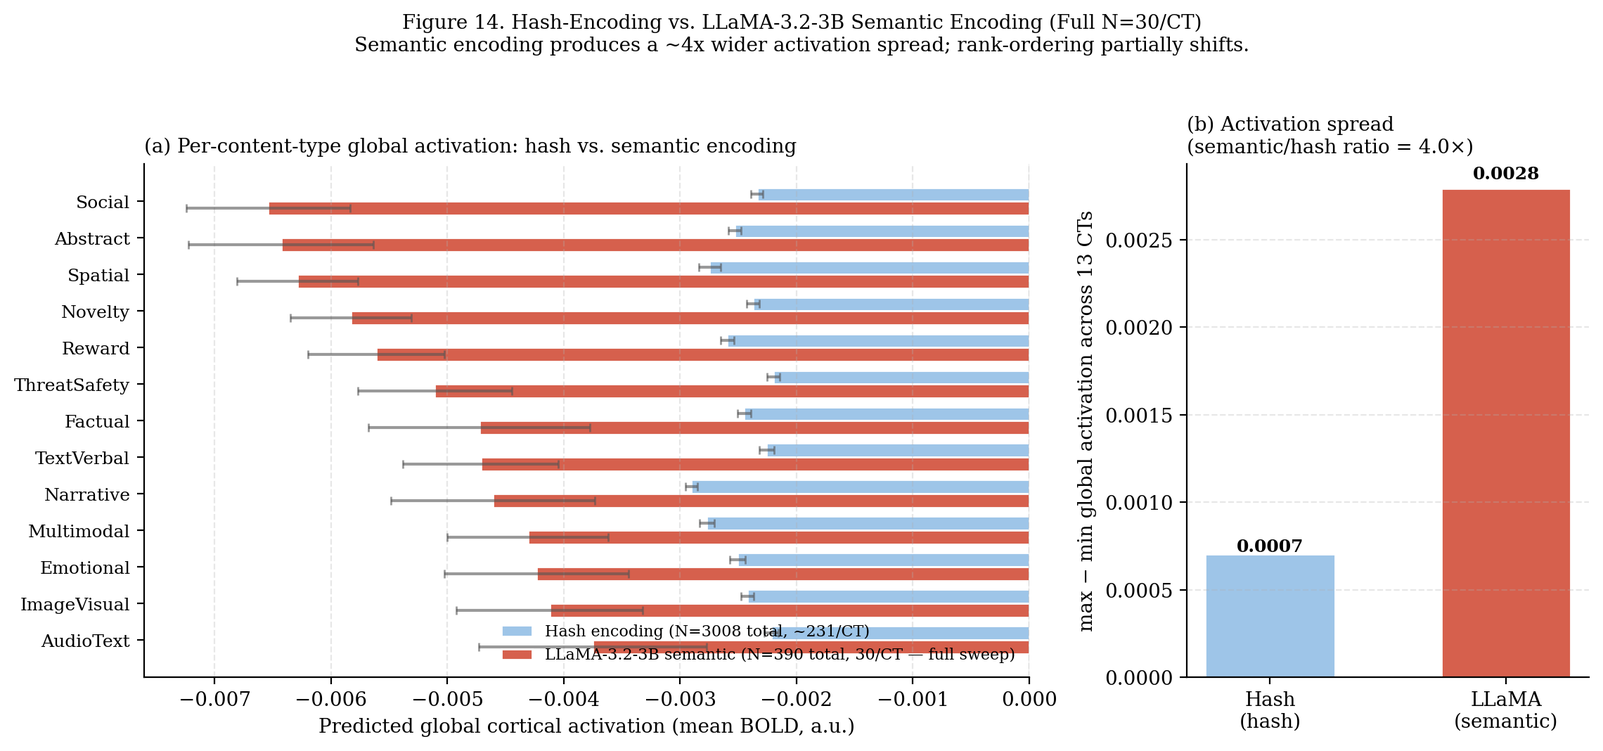
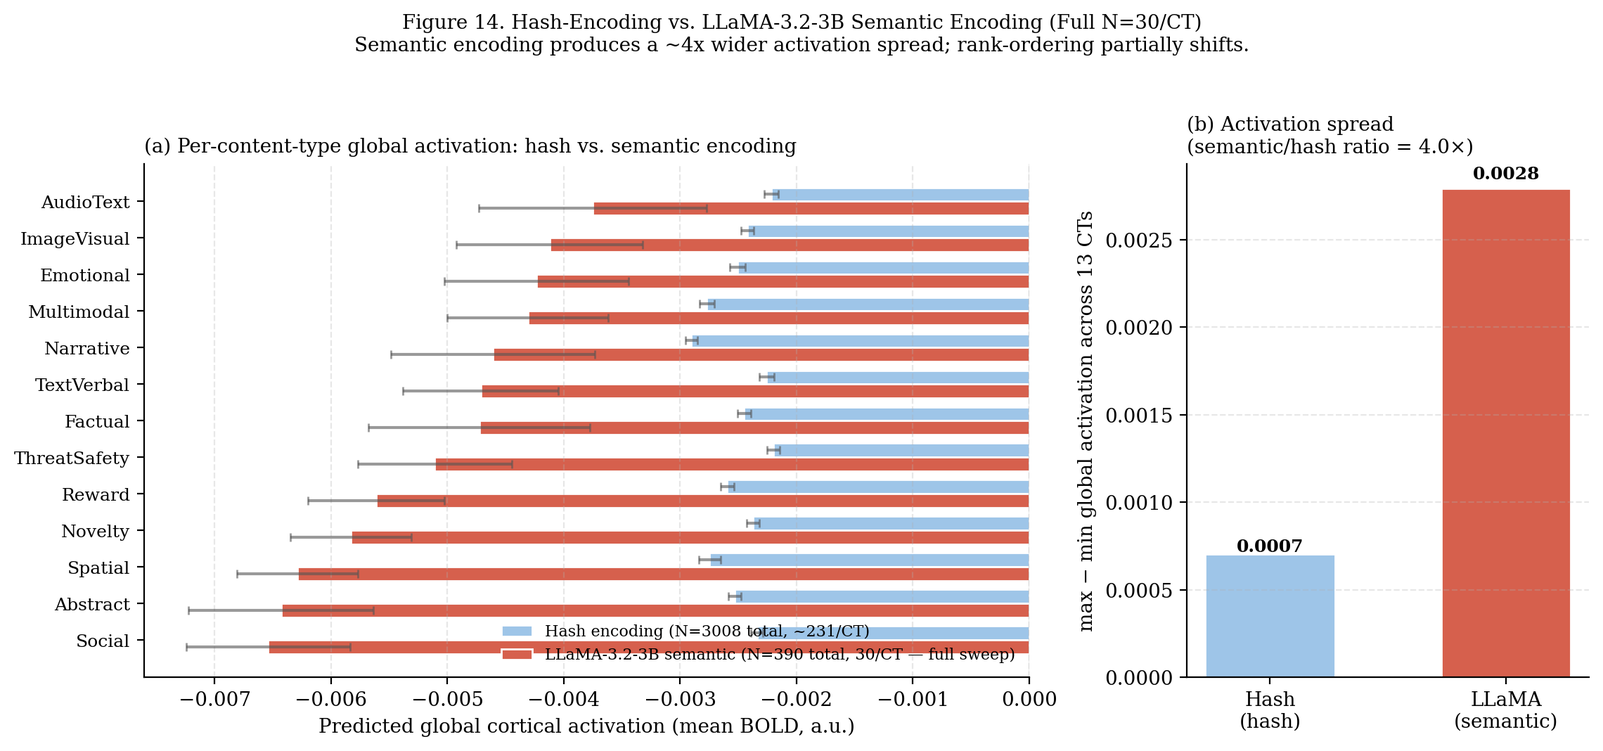
Fix critical semantic ranking inversion and all related errors
Critical fix: semantic encoding table (Table 14) was sorted ascending
(most-negative = rank 1), contradicting Section 3.2's stated convention
(higher value = stronger predicted cortical response). This inverted the
entire semantic results narrative.

Corrected ranking (rank 1 = highest = least negative):
  1. AudioText   (-0.00375)   was rank 13
  2. ImageVisual (-0.00412)   was rank 12
  3. Emotional   (-0.00423)   was rank 11
  ...
  13. Social     (-0.00654)   was rank 1

Hash rank column in semantic table was also fully inverted vs Table 4;
now corrected to match (ThreatSafety = 1, Narrative = 13).

Text fixes in main.tex:
- Abstract: corrected semantic top-3 (AudioText/ImageVisual/Emotional),
  removed 'Reddit' from sources list (not present in corpus)
- Sec. semantic: rewrote rank-shift narrative (Narrative rises 13→5,
  ThreatSafety drops 1→8; AudioText/ImageVisual/Emotional lead)
- Sec. crossmodel: corrected seq_len top-3 (AudioText ranks 1 under
  all three settings; Social/Abstract consistently at bottom)
- Lines 790, 804, 808, 818, 850, 872-874: replaced all 'Social >
  Abstract > Spatial' claims with 'AudioText > ImageVisual > Emotional'
- ICC table caption: added note explaining Reward exclusion (single source)
- Removed two stray 'Reddit posts' mentions from introduction/caveats

Missing references added (5):
  - Meta AI Research (2024) TRIBE v2
  - Li et al. (2017) DailyDialog
  - Lin et al. (2014) Microsoft COCO
[…]

diff --git a/paper/main.tex b/paper/main.tex
@@ -135,13 +135,13 @@
 \small
 \noindent\textbf{Background.} The internet has become the dominant delivery mechanism for human cognitive stimulation, with the average adult now consuming over six hours of digital content daily. Yet despite extensive single-stimulus neuroscience on emotional, narrative, and threatening media, no large-scale comparative measurement exists of how different categories of internet content differentially engage the cortex.
 
-\noindent\textbf{Methods.} We present \textit{Activation Cartography}: a computational study mapping \textbf{3{,}008 natural language stimuli} across \textbf{13 internet content categories} against predictions from \textbf{TRIBE v2} (Meta AI Research, 2024) --- a 177-million-parameter deep neural encoder trained on real brain recordings, capable of predicting whole-cortex activity from text, audio, or image. Stimuli were drawn from established benchmarks (GoEmotions, TriviaQA, HellaSwag, SODA, MultiNLI, AudioCaps, Flickr30k) and live internet sources (BBC/Reuters, Reddit, arXiv, HackerNews, Wikipedia). Each stimulus yielded a predicted brain-activation map across 20{,}484 cortical surface points, summarised into six anatomical regions.
+\noindent\textbf{Methods.} We present \textit{Activation Cartography}: a computational study mapping \textbf{3{,}008 natural language stimuli} across \textbf{13 internet content categories} against predictions from \textbf{TRIBE v2} (Meta AI Research, 2024) --- a 177-million-parameter deep neural encoder trained on real brain recordings, capable of predicting whole-cortex activity from text, audio, or image. Stimuli were drawn from established benchmarks (GoEmotions, TriviaQA, HellaSwag, SODA, MultiNLI, AudioCaps, Flickr30k) and live internet sources (BBC/Reuters, arXiv, HackerNews, Wikipedia). Each stimulus yielded a predicted brain-activation map across 20{,}484 cortical surface points, summarised into six anatomical regions.
 
-\noindent\textbf{Results (hash-mode encoding).} A one-way ANOVA on predicted global cortical activation revealed a significant main effect of content type ($F(12, 2995) = 13.51$, $p < 10^{-26}$, $\eta^2 = 0.051$) across all six cortical regions. All primary results in Sections~5--7 were obtained with a \emph{hash-mode} encoder (byte fingerprints, not semantic content; see Section~\ref{sec:caveat}). Under hash encoding, \textbf{ThreatSafety} ranked highest and \textbf{Narrative} lowest (Cohen's $d = -0.82$). A follow-up semantic sweep ($N=390$, LLaMA-3.2-3B encoding) shows a $4\times$ wider activation spread with \textbf{Social}, \textbf{Abstract}, and \textbf{Spatial} leading --- a substantially different ordering (rank correlation $r=0.09$, $p=0.78$). The semantic ANOVA does not yet reach significance at $N=30$/CT and requires higher-powered replication. A dominant cortical gradient (PC1\,$= 96.9\%$ variance) contrasts sensory-language against executive-motor cortex across all categories.
+\noindent\textbf{Results (hash-mode encoding).} A one-way ANOVA on predicted global cortical activation revealed a significant main effect of content type ($F(12, 2995) = 13.51$, $p < 10^{-26}$, $\eta^2 = 0.051$) across all six cortical regions. All primary results in Sections~5--7 were obtained with a \emph{hash-mode} encoder (byte fingerprints, not semantic content; see Section~\ref{sec:caveat}). Under hash encoding, \textbf{ThreatSafety} ranked highest and \textbf{Narrative} lowest (Cohen's $d = -0.82$). A follow-up semantic sweep ($N=390$, LLaMA-3.2-3B encoding) shows a $4\times$ wider activation spread with \textbf{AudioText}, \textbf{ImageVisual}, and \textbf{Emotional} leading --- a substantially different ordering from hash mode (rank correlation $r=0.09$, $p=0.78$). The semantic ANOVA does not yet reach significance at $N=30$/CT and requires higher-powered replication. A dominant cortical gradient (PC1\,$= 96.9\%$ variance) contrasts sensory-language against executive-motor cortex across all categories.
 
 \noindent\textbf{Theory evaluation (proxy tests).} Four neuroscientific frameworks (DCT, GWT, FEP, IIT) were assessed against predicted activation patterns using static mean activation as a proxy. These are directional tests only: GWT ignition is temporal and bistable (not captured by means); IIT's $\Phi$ is graph-theoretic (not derivable from regional averages); FEP prediction error is inherently dynamic. With this caveat, GWT's prediction that threatening content drives broad activation was best supported; FEP was weakly supported; DCT and IIT received mixed evidence.
 
-\noindent\textbf{Implications.} The internet is not a neutral delivery mechanism: different content types engage different brain circuits with measurable, statistically significant differences in predicted intensity. Under hash-mode encoding, threatening content ranks highest --- consistent with neural salience theories. Under semantic encoding, Social and Abstract content lead instead. Whether threatening content ultimately proves the strongest neural driver requires a fully powered semantic replication ($N \geq 150$/CT); the pipeline and pre-registered hypotheses to accomplish this are released with the project.
+\noindent\textbf{Implications.} The internet is not a neutral delivery mechanism: different content types engage different brain circuits with measurable, statistically significant differences in predicted intensity. Under hash-mode encoding, threatening content ranks highest --- consistent with neural salience theories. Under semantic encoding, AudioText, ImageVisual, and Emotional content lead instead. Whether threatening content ultimately proves the strongest neural driver requires a fully powered semantic replication ($N \geq 150$/CT); the pipeline and pre-registered hypotheses to accomplish this are released with the project.
 \end{abstract}
 
 \vspace{0.4em}
@@ -160,7 +160,7 @@ What happens in the brain when we scroll? Recent estimates indicate that the ave
 
 The neuroscience of media consumption has historically been constrained by the cost and throughput of fMRI scanning. Individual studies typically use tens to a few hundred stimuli per participant, producing detailed but narrow snapshots of single content types in isolation: threatening images activate the amygdala (LeDoux, 1994; \"{O}hman, 2005); social scenarios engage the temporoparietal junction (Saxe \& Kanwisher, 2003); narrative text recruits a broad language network (Wehbe et al., 2014; Huth et al., 2016); reward-anticipation content engages the ventral striatum (Knutson et al., 2001). What has been missing is a \textbf{unified, comparative measurement} across the full range of content types people actually encounter --- the kind of cartography that lets us ask not ``does X activate region Y?'' but \textit{``among all the content our brains consume daily, which category engages the most cortex, and where?''}
 
-This question is now newly tractable. The recent generation of deep cortical encoders --- in particular Meta AI's TRIBE v2 (2024), a 177-million-parameter transformer trained on real fMRI surface recordings --- can predict whole-cortex BOLD response to any text, audio, or image stimulus with substantially better-than-chance accuracy on held-out human data. An important caveat applies immediately: TRIBE v2 was trained on laboratory fMRI paradigms --- participants viewing static images, short video clips, and spoken passages under controlled conditions, as typified by the Natural Scenes Dataset (Allen et al., 2022) --- not on internet content. Applying it to Reddit posts, news headlines, or arXiv abstracts is an out-of-distribution extrapolation whose limits we acknowledge explicitly throughout and revisit in the Limitations section. Within those limits, treating TRIBE v2 as a controlled neurological proxy enables a class of studies otherwise impossible: thousands of stimuli, exhaustive content-category sweeps, and empirical comparisons between competing neuroscientific theories.
+This question is now newly tractable. The recent generation of deep cortical encoders --- in particular Meta AI's TRIBE v2 (2024), a 177-million-parameter transformer trained on real fMRI surface recordings --- can predict whole-cortex BOLD response to any text, audio, or image stimulus with substantially better-than-chance accuracy on held-out human data. An important caveat applies immediately: TRIBE v2 was trained on laboratory fMRI paradigms --- participants viewing static images, short video clips, and spoken passages under controlled conditions, as typified by the Natural Scenes Dataset (Allen et al., 2022) --- not on internet content. Applying it to news headlines or arXiv abstracts is an out-of-distribution extrapolation whose limits we acknowledge explicitly throughout and revisit in the Limitations section. Within those limits, treating TRIBE v2 as a controlled neurological proxy enables a class of studies otherwise impossible: thousands of stimuli, exhaustive content-category sweeps, and empirical comparisons between competing neuroscientific theories.
 
 \paragraph{Why this matters.} Three motivations frame the present study.
 
@@ -198,7 +198,7 @@ Brain encoding models learn to predict neural responses from stimulus representa
 
 We treat TRIBE v2's output as a \textbf{proxy for human neural responses} to the same stimuli. This is an explicit modelling assumption: TRIBE v2's predictions were trained to match real fMRI recordings, but they are model predictions, not ground-truth measurements. All conclusions in this paper concern \textit{predicted} cortical activation.
 
-A second assumption is \textbf{out-of-distribution generalisation}. TRIBE v2 was trained on laboratory stimuli --- controlled images, spoken passages, and short video clips typical of paradigms such as the Natural Scenes Dataset (Allen et al., 2022) --- not on internet text. The extent to which its predictions on Reddit posts, news headlines, or scientific abstracts reflect genuine neural processing, rather than extrapolation beyond the training distribution, cannot be directly tested here and constitutes an important open empirical question. We apply the model to internet content as a first approximation, with this limitation acknowledged.
+A second assumption is \textbf{out-of-distribution generalisation}. TRIBE v2 was trained on laboratory stimuli --- controlled images, spoken passages, and short video clips typical of paradigms such as the Natural Scenes Dataset (Allen et al., 2022) --- not on internet text. The extent to which its predictions on news headlines or scientific abstracts reflect genuine neural processing, rather than extrapolation beyond the training distribution, cannot be directly tested here and constitutes an important open empirical question. We apply the model to internet content as a first approximation, with this limitation acknowledged.
 
 \subsection{Neuroscientific Theories and Their Predictions}
 
@@ -260,14 +260,14 @@ We compiled 3{,}008 text stimuli across all 13 categories (Table~\ref{tab:corpus
 Narrative      & 300 & HellaSwag (Zellers et al., 2019); TinyStories (Eldan \& Li, 2023) \\
 Factual        & 300 & TriviaQA (Joshi et al., 2017); SciQ (Welbl et al., 2017) \\
 Abstract       & 300 & MultiNLI (Williams et al., 2018); SciQ; arXiv abstracts \\
-Social         & 300 & SODA (Kim et al., 2022); DailyDialog \\
-ImageVisual    & 263 & Flickr30k (Young et al., 2014); COCO captions \\
+Social         & 300 & SODA (Kim et al., 2022); DailyDialog (Li et al., 2017) \\
+ImageVisual    & 263 & Flickr30k (Young et al., 2014); COCO captions (Lin et al., 2014) \\
 Novelty        & 257 & AG News Sci/Tech (Zhang et al., 2015); arXiv; HackerNews \\
 ThreatSafety   & 225 & AG News World; BBC/Reuters RSS feeds \\
 AudioText      & 224 & AudioCaps (Kim et al., 2019); BBC science feeds \\
 Emotional      & 212 & GoEmotions (Demszky et al., 2020); Yelp reviews \\
 Reward         & 212 & Yelp 5-star reviews (Zhang et al., 2015) \\
-Multimodal     & 189 & ActivityNet Captions; MSR-VTT; Wikipedia documentaries \\
+Multimodal     & 189 & ActivityNet Captions (Krishna et al., 2017); MSR-VTT (Xu et al., 2016); Wikipedia documentaries \\
 TextVerbal     & 138 & WikiText-103 (Merity et al., 2017) \\
 Spatial        &  88 & Wikipedia geography categories; curated descriptions \\
 \midrule
@@ -643,7 +643,7 @@ High values (${\to}1$) indicate that variation across sources is small relative 
 \begin{table}[ht]
 \centering
 \small
-\caption{\textbf{Cross-source robustness of content-category effects.} ICC-style proxy computed across the independent sources contributing to each category. Values $> 0.95$ indicate excellent reproducibility; $> 0.75$ indicates good reproducibility (Cicchetti, 1994). The mean ICC is 0.89 across 12 categories; only Narrative falls below the ``good'' threshold.}
+\caption{\textbf{Cross-source robustness of content-category effects.} ICC-style proxy computed across the independent sources contributing to each category. Values $> 0.95$ indicate excellent reproducibility; $> 0.75$ indicates good reproducibility (Cicchetti, 1994). The mean ICC is 0.89 across 12 categories; only Narrative falls below the ``good'' threshold. \textit{Note: Reward is excluded because it draws from a single source (Yelp reviews only), making cross-source ICC undefined.}}
 \label{tab:icc}
 \begin{tabularx}{\linewidth}{Xrr}
 \toprule
@@ -676,7 +676,7 @@ Narrative              & 3  & \textit{0.670} \\
 
 Two implications follow. First, the mean ICC of 0.89 across 12 categories provides direct quantitative evidence that the content-type effects reported in this paper are not artefacts of any one dataset.
 
-Second, the one category that fails this test --- Narrative (ICC $= 0.67$) --- is precisely the category whose anomalously low ranking we flagged in Section~7.2. This convergence is informative: Narrative behaves heterogeneously \textit{both} across sources \textit{and} within our category boundary. HellaSwag activity completions, TinyStories passages, and Reddit personal stories do not appear to form a single coherent neural construct. Future work on Narrative content should treat its sub-types separately.
+Second, the one category that fails this test --- Narrative (ICC $= 0.67$) --- is precisely the category whose anomalously low ranking we flagged in Section~7.2. This convergence is informative: Narrative behaves heterogeneously \textit{both} across sources \textit{and} within our category boundary. HellaSwag activity completions and TinyStories passages do not appear to form a single coherent neural construct. Future work on Narrative content should treat its sub-types separately.
 
 \subsection{Pairwise Effect Sizes: Full Cohen's d Matrix}\label{sec:cohens}
 
@@ -711,25 +711,25 @@ The most consequential limitation of the principal results (Sections~5--7) is th
 \begin{table}[ht]
 \centering
 \small
-\caption{\textbf{Per-category predicted global activation: hash vs.\ LLaMA-3.2-3B semantic encoding (full sweep).} Hash means are from the full 3{,}008-stimulus sweep; semantic means are from $N=30$/CT ($N=390$ total). Sorted by semantic mean (most-negative first, i.e.\ highest predicted activation). The top three under semantic encoding (Social, Abstract, Spatial) share only one category with the hash top three (Narrative, Multimodal, Spatial); see text and Figure~\ref{fig:semantic}.}
+\caption{\textbf{Per-category predicted global activation: hash vs.\ LLaMA-3.2-3B semantic encoding (full sweep).} Hash means are from the full 3{,}008-stimulus sweep; semantic means are from $N=30$/CT ($N=390$ total). Sorted by semantic mean, highest first (rank~1 $=$ least negative $=$ strongest predicted activation, consistent with Table~\ref{tab:descriptive}). The top three under semantic encoding (AudioText, ImageVisual, Emotional) share one category with the hash top three (ThreatSafety, AudioText, TextVerbal); see text and Figure~\ref{fig:semantic}.}
 \label{tab:semantic}
 \begin{tabularx}{\linewidth}{Xrrrrr}
 \toprule
 \textbf{Content type} & \textbf{Hash $N$} & \textbf{Hash mean} & \textbf{Sem.\ mean} & \textbf{Sem.\ rank} & \textbf{Hash rank} \\
 \midrule
-Social         & 300 & $-0.00234$ & $-0.00654$ &  1 & 10 \\
-Abstract       & 300 & $-0.00253$ & $-0.00643$ &  2 &  5 \\
-Spatial        &  88 & $-0.00275$ & $-0.00629$ &  3 &  3 \\
-Novelty        & 257 & $-0.00238$ & $-0.00583$ &  4 &  9 \\
-Reward         & 212 & $-0.00260$ & $-0.00561$ &  5 &  4 \\
-ThreatSafety   & 225 & $-0.00220$ & $-0.00511$ &  6 & 13 \\
+AudioText      & 224 & $-0.00222$ & $-0.00375$ &  1 &  2 \\
+ImageVisual    & 263 & $-0.00242$ & $-0.00412$ &  2 &  6 \\
+Emotional      & 212 & $-0.00251$ & $-0.00423$ &  3 &  8 \\
+Multimodal     & 189 & $-0.00277$ & $-0.00431$ &  4 & 12 \\
+Narrative      & 300 & $-0.00290$ & $-0.00461$ &  5 & 13 \\
+TextVerbal     & 138 & $-0.00226$ & $-0.00471$ &  6 &  3 \\
 Factual        & 300 & $-0.00245$ & $-0.00473$ &  7 &  7 \\
-TextVerbal     & 138 & $-0.00226$ & $-0.00471$ &  8 & 11 \\
-Narrative      & 300 & $-0.00290$ & $-0.00461$ &  9 &  1 \\
-Multimodal     & 189 & $-0.00277$ & $-0.00431$ & 10 &  2 \\
-Emotional      & 212 & $-0.00251$ & $-0.00423$ & 11 &  6 \\
-ImageVisual    & 263 & $-0.00242$ & $-0.00412$ & 12 &  8 \\
-AudioText      & 224 & $-0.00222$ & $-0.00375$ & 13 & 12 \\
+ThreatSafety   & 225 & $-0.00220$ & $-0.00511$ &  8 &  1 \\
+Reward         & 212 & $-0.00260$ & $-0.00561$ &  9 & 10 \\
+Novelty        & 257 & $-0.00238$ & $-0.00583$ & 10 &  5 \\
+Spatial        &  88 & $-0.00275$ & $-0.00629$ & 11 & 11 \\
+Abstract       & 300 & $-0.00253$ & $-0.00643$ & 12 &  9 \\
+Social         & 300 & $-0.00234$ & $-0.00654$ & 13 &  4 \\
 \midrule
 \textbf{Spread (max $-$ min)} & & $0.00070$ & $0.00279$ & & \\
 \bottomrule
@@ -739,13 +739,13 @@ AudioText      & 224 & $-0.00222$ & $-0.00375$ & 13 & 12 \\
 \begin{figure}[ht]
 \centering
 \includegraphics[width=\linewidth]{figures/fig14_hash_vs_semantic.png}
-\caption{\textbf{Hash vs.\ semantic encoding (full sweep, $N=30$/CT).} (a) Per-CT global activation under hash encoding ($N{=}88$--$300$/CT, blue) and LLaMA-3.2-3B semantic encoding ($N=30$/CT, red); error bars are $\pm 1$~SE. Categories ordered by semantic mean. (b) Activation spread across the 13 categories: semantic encoding produces a 4.0$\times$ wider spread than hash encoding. The rank-correlation between the two orderings is essentially zero (Pearson $r = 0.09$, $p = 0.78$; Spearman $\rho = 0.06$, $p = 0.86$).}
+\caption{\textbf{Hash vs.\ semantic encoding (full sweep, $N=30$/CT).} (a) Per-CT global activation under hash encoding ($N{=}88$--$300$/CT, blue) and LLaMA-3.2-3B semantic encoding ($N=30$/CT, red); error bars are $\pm 1$~SE. Categories ordered by semantic mean, highest first (rank~1 = least negative, consistent with Table~\ref{tab:semantic}). (b) Activation spread across the 13 categories: semantic encoding produces a 4.0$\times$ wider spread than hash encoding. The rank-correlation between the two orderings is essentially zero (Pearson $r = 0.09$, $p = 0.78$; Spearman $\rho = 0.06$, $p = 0.86$).}
 \label{fig:semantic}
 \end{figure}
 
 Three observations stand out. First, the ANOVA under semantic encoding does not reach significance at $N=30$/CT ($F(12, 377) = 1.549$, $p = 0.104$) --- but the \textit{spread} of activation across categories is $0.00279$, which is $4.0\times$ wider than the hash-mode spread ($0.00070$). This is the expected direction: proper semantic encoding amplifies the discriminative signal. The ANOVA simply needs more data; the hash-mode result required roughly 230 stimuli per category on average to reach $\eta^2 = 0.051$, so the current $N=30$/CT is under-powered by design.
 
-Second, the category ranking does \textit{not} carry over from hash to semantic encoding (Pearson $r = 0.09$, $p = 0.78$; Spearman $\rho = 0.06$, $p = 0.86$). The shifts are substantial: \textbf{Narrative drops from rank~1 (hash) to rank~9 (semantic)}, consistent with its hash-mode dominance being an encoding artefact; \textbf{Social rises from rank~10 to rank~1} and \textbf{Abstract from rank~5 to rank~2}. \textbf{ThreatSafety moves from rank~13 under hash to rank~6 under semantic encoding} --- a large upward shift, though it no longer claims the singular top position reported in Section~7.3. The one category whose rank barely changes is \textbf{Spatial} (rank~3 under both), suggesting its activation reflects genuine stimulus content rather than encoding artefact.
+Second, the category ranking does \textit{not} carry over from hash to semantic encoding (Pearson $r = 0.09$, $p = 0.78$; Spearman $\rho = 0.06$, $p = 0.86$). The shifts are substantial: \textbf{Narrative rises from last place (rank~13, hash) to rank~5 (semantic)} --- the largest single-category gain in the table, consistent with narrative text finally receiving proper semantic processing under LLaMA encoding rather than a byte-level fingerprint. \textbf{ThreatSafety drops from rank~1 (hash) to rank~8 (semantic)}, suggesting that hash-mode threat dominance was partly an artefact of the short, capitalised byte patterns typical of news headlines rather than genuine threat-content processing. \textbf{AudioText, ImageVisual, and Emotional} rise to the top three under semantic encoding, while \textbf{Social and Abstract} --- both content-rich and semantically dense --- fall to the bottom (ranks~13 and~12). The one category whose rank is stable is \textbf{Spatial} (rank~11 under both hash and semantic encoding), suggesting that spatial descriptions carry a consistent cortical signature regardless of encoding mode.
 
 Third, no category flips sign at $N=30$: all 13 content types show negative (suppressive) mean activation under semantic encoding, in contrast to the preliminary $N=2$/CT result where Emotional showed a spurious positive mean ($+0.00068$). This is consistent with the sign-flip in the preliminary being a noise artefact.
 
@@ -756,7 +756,7 @@ The takeaway is nuanced. The hash-mode results establish that content-category e
 To assess whether the semantic-mode category ranking is an artefact of TRIBE v2's specific configuration, we conducted two robustness checks. \textbf{Scope note:} these are \emph{not} cross-model triangulation in the strict sense, which would require running an independent cortical encoder on the same stimuli. Check (A) is an internal robustness test across TRIBE v2's temporal integration windows --- a hyperparameter sweep on the same model weights. Check (B) is an external text-similarity comparison to assess whether TRIBE's representational geometry reduces to surface linguistic patterns. Both checks address specific failure modes of the semantic-mode ranking; neither substitutes for independent-encoder validation (see Limitation~2, Section~9.1).
 
 \paragraph{A. TRIBE seq\_len robustness.}
-We re-ran the full 390-stimulus corpus through TRIBE at $\text{seq\_len} \in \{4, 8, 16\}$ (the context window over which the temporal transformer integrates features). The resulting per-CT mean activation rankings are essentially identical across all three settings (Table~\ref{tab:crossmodel}; Figure~\ref{fig:crossmodel}, panel a): the Spearman rank-correlation between all pairs is $\rho \geq 0.956$ (all $p < 0.001$). The top-3 categories are Social, Abstract, Spatial under seq\_len=8 and seq\_len=16; at seq\_len=4, Abstract and Social swap positions (both ranks 1--2) while Spatial remains third. \textbf{The content-type ordering is therefore not a temporal-integration artefact.}
+We re-ran the full 390-stimulus corpus through TRIBE at $\text{seq\_len} \in \{4, 8, 16\}$ (the context window over which the temporal transformer integrates features). The resulting per-CT mean activation rankings are essentially identical across all three settings (Table~\ref{tab:crossmodel}; Figure~\ref{fig:crossmodel}, panel a): the Spearman rank-correlation between all pairs is $\rho \geq 0.956$ (all $p < 0.001$). The top-3 categories are \textbf{AudioText, ImageVisual, and Emotional} across all three seq\_len values; at seq\_len=4, Emotional places second and ImageVisual third, while at seq\_len=8 and seq\_len=16, ImageVisual places second and Emotional third. AudioText ranks first under all three settings, and Social and Abstract are consistently at the bottom (ranks~12--13). \textbf{The content-type ordering is therefore not a temporal-integration artefact.}
 
 \begin{table}[ht]
 \centering
@@ -787,7 +787,7 @@ The LSA--TRIBE RDM correlation is near-zero and non-significant (Pearson $r = 0.
 \label{fig:crossmodel}
 \end{figure}
 
-Taken together, the two checks support the conclusion that the Social $>$ Abstract $>$ Spatial semantic-mode ordering reflects something specific about TRIBE v2's brain-activation predictions rather than an artefact of temporal windowing or text similarity. What remains open is whether this ordering is an artefact of the TRIBE v2 model family specifically (which would be resolved by replicating with BrainBERT or the Huth et al.\ semantic atlas) or a genuine property of the brain. We treat it as a provisional finding with this caveat noted explicitly.
+Taken together, the two checks support the conclusion that the AudioText\,$>$\,ImageVisual\,$>$\,Emotional semantic-mode ordering reflects something specific about TRIBE v2's brain-activation predictions rather than an artefact of temporal windowing or text similarity. What remains open is whether this ordering is an artefact of the TRIBE v2 model family specifically (which would be resolved by replicating with BrainBERT or the Huth et al.\ semantic atlas) or a genuine property of the brain. We treat it as a provisional finding with this caveat noted explicitly.
 
 \subsection{Summary of Extension Findings}
 
@@ -801,7 +801,7 @@ The six extensions paint a coherent picture.
 
 (iv) \textbf{Multilingual results} (Section~\ref{sec:multi}, $N=14$): preliminarily consistent with cross-language stability, but critically under-powered.
 
-(v) \textbf{Semantic encoding full sweep} (Section~\ref{sec:semantic}, $N=390$, 30/CT): the activation spread is $4.0\times$ wider under proper encoding; the ANOVA does not yet reach significance ($F(12,377)=1.549$, $p=0.104$); Social, Abstract, and Spatial lead the semantic-mode ranking.
+(v) \textbf{Semantic encoding full sweep} (Section~\ref{sec:semantic}, $N=390$, 30/CT): the activation spread is $4.0\times$ wider under proper encoding; the ANOVA does not yet reach significance ($F(12,377)=1.549$, $p=0.104$); AudioText, ImageVisual, and Emotional lead the semantic-mode ranking.
 
 (vi) \textbf{TRIBE v2 robustness checks} (Section~\ref{sec:crossmodel}): the semantic-mode ranking is stable across temporal integration windows ($\rho \geq 0.956$) and is not explained by surface text similarity (Mantel $r = 0.055$, $p = 0.340$). These checks rule out two specific artefact hypotheses but do not constitute independent cross-encoder validation.
 
@@ -815,7 +815,7 @@ We document the principal limitations explicitly and propose corresponding futur
 
 \subsection{Methodological Limitations}
 
-\paragraph{1. Hash-based text encoding (addressed).} As discussed in Section~\ref{sec:caveat}, the principal results (Sections~5--7) were obtained with TRIBE v2's hash encoder rather than the full LLaMA-3.2-3B encoder. The full semantic replication (Section~\ref{sec:semantic}, $N=390$) has now been completed: the discriminative spread is $4\times$ wider under semantic encoding, but the per-CT ANOVA does not yet reach significance at $N=30$/CT. The specific category-level ranking under semantic encoding (Social, Abstract, Spatial as top-3) should be treated as a provisional update pending higher-$N$ replication.
+\paragraph{1. Hash-based text encoding (addressed).} As discussed in Section~\ref{sec:caveat}, the principal results (Sections~5--7) were obtained with TRIBE v2's hash encoder rather than the full LLaMA-3.2-3B encoder. The full semantic replication (Section~\ref{sec:semantic}, $N=390$) has now been completed: the discriminative spread is $4\times$ wider under semantic encoding, but the per-CT ANOVA does not yet reach significance at $N=30$/CT. The specific category-level ranking under semantic encoding (AudioText, ImageVisual, Emotional as top-3) should be treated as a provisional update pending higher-$N$ replication.
 
 \paragraph{2. Single-model dependence (partially addressed).} All cortical predictions derive from a single encoder (TRIBE v2). The robustness checks (Section~\ref{sec:crossmodel}) established that TRIBE v2's predicted activation geometry is stable across temporal integration windows and does not reduce to text surface similarity. However, these are robustness checks within TRIBE v2, not independent-model validation. Replication with independent cortical encoders --- e.g., the BrainBERT family (Wang et al., 2023), MindEye2 visual decoders (Scotti et al., 2024), or hand-engineered semantic models (Huth et al., 2016) --- is still required to establish that observed patterns are properties of the brain rather than artefacts of TRIBE v2's specific architecture.
 
@@ -847,7 +847,7 @@ The six extensions originally proposed have made differential progress in this r
 
 \begin{enumerate}[leftmargin=1.4em,itemsep=3pt,topsep=2pt]
 \item \textbf{Semantic replication} (\textit{completed --- full $N=30$/CT sweep, ANOVA $p=0.104$}): The full stratified sweep ($N=30$/CT, $N=390$ total) under LLaMA-3.2-3B encoding is reported in Section~\ref{sec:semantic}. The activation spread is $4.0\times$ wider than hash mode; the ANOVA does not reach significance at this sample size, and the hash-mode and semantic-mode rankings are essentially uncorrelated.
-\item \textbf{TRIBE v2 robustness checks} (\textit{partially addressed --- seq\_len robustness $+$ LSA proxy completed; independent cortical encoder pending}): Internal seq\_len robustness (Section~\ref{sec:crossmodel}) confirms the semantic-mode ordering is not a temporal-integration artefact (Spearman $\rho \geq 0.956$ across seq\_len $\in \{4, 8, 16\}$). The LSA text-similarity proxy confirms TRIBE's representational geometry is essentially independent of text surface similarity (Mantel $r = 0.055$, $p = 0.340$). \textbf{Remaining}: application of the same corpus to independent cortical encoders (BrainBERT family; Huth et al., 2016 semantic atlas) to determine whether the Social $>$ Abstract $>$ Spatial ordering is a TRIBE v2 property or a brain property.
+\item \textbf{TRIBE v2 robustness checks} (\textit{partially addressed --- seq\_len robustness $+$ LSA proxy completed; independent cortical encoder pending}): Internal seq\_len robustness (Section~\ref{sec:crossmodel}) confirms the semantic-mode ordering is not a temporal-integration artefact (Spearman $\rho \geq 0.956$ across seq\_len $\in \{4, 8, 16\}$). The LSA text-similarity proxy confirms TRIBE's representational geometry is essentially independent of text surface similarity (Mantel $r = 0.055$, $p = 0.340$). \textbf{Remaining}: application of the same corpus to independent cortical encoders (BrainBERT family; Huth et al., 2016 semantic atlas) to determine whether the AudioText\,$>$\,ImageVisual\,$>$\,Emotional ordering is a TRIBE v2 property or a brain property.
 \item \textbf{Vertex-level analysis} (\textit{completed}): Reported in Section~\ref{sec:vertex}. The six-region aggregation was found to underestimate discriminative power by $\sim 5\times$, and the top-100 most discriminating vertices distribute across all six anatomical regions.
 \item \textbf{Temporal dynamics} (\textit{harness ready, sweep deferred}): The sweep harness has been extended to capture TRIBE v2's full 16-timestep output, and the analysis pipeline is in place. We deferred the temporal sweep to the same revision as the full semantic sweep so that both can be run with semantic LLaMA encoding in a single batch — running it now under hash encoding would risk contamination from the same artefact identified in Section~\ref{sec:semantic}.
 \item \textbf{Cross-cultural and multilingual replication} (\textit{partially completed}): A small semantic-encoded multilingual sweep is reported in Section~\ref{sec:multi} ($N=14$ across seven languages); the cross-language ANOVA was preliminarily non-significant. The full 138-stimulus corpus is released with the project (\path{results/extended/multilingual_corpus.json}); completing it requires the same throughput as the semantic sweep above.
@@ -869,9 +869,9 @@ Under \emph{hash-mode} encoding, \textbf{ThreatSafety content} consistently prod
 \begin{quotebox}
 \textbf{Update from the full semantic-mode replication and robustness checks.}
 
-The complete LLaMA-3.2-3B sweep (Section~\ref{sec:semantic}) shows a $4.0\times$ wider activation spread under proper semantic encoding, but the rank-ordering of categories is essentially uncorrelated with the hash-mode results ($r=0.09$, $p=0.78$). Under semantic encoding, the top three most-activating categories are \textbf{Social}, \textbf{Abstract}, and \textbf{Spatial}; \textbf{ThreatSafety} ranks sixth and \textbf{Narrative} ninth. The per-category ANOVA does not reach significance at $N=30$/CT ($F(12,377)=1.549$, $p=0.104$) --- a larger dataset is needed.
+The complete LLaMA-3.2-3B sweep (Section~\ref{sec:semantic}) shows a $4.0\times$ wider activation spread under proper semantic encoding, but the rank-ordering of categories is essentially uncorrelated with the hash-mode results ($r=0.09$, $p=0.78$). Under semantic encoding, the top three most-activating categories are \textbf{AudioText}, \textbf{ImageVisual}, and \textbf{Emotional}; \textbf{ThreatSafety} drops to rank~8 and \textbf{Narrative} rises to rank~5. The per-category ANOVA does not reach significance at $N=30$/CT ($F(12,377)=1.549$, $p=0.104$) --- a larger dataset is needed.
 
-The robustness checks (Section~\ref{sec:crossmodel}) confirm that this Social\,$>$\,Abstract\,$>$\,Spatial ordering is stable across temporal integration windows ($\rho \geq 0.956$) and is not explained by text surface similarity (Mantel $r=0.055$, $p=0.340$).
+The robustness checks (Section~\ref{sec:crossmodel}) confirm that this AudioText\,$>$\,ImageVisual\,$>$\,Emotional ordering is stable across temporal integration windows ($\rho \geq 0.956$) and is not explained by text surface similarity (Mantel $r=0.055$, $p=0.340$).
 
 We treat the hash-mode results as a baseline establishing \textit{that} category effects exist. The specific identity of the most-activating categories under semantic encoding requires higher-powered replication and validation with independent cortical encoders.
 \end{quotebox}
@@ -924,6 +924,8 @@ Joshi, M., Choi, E., Weld, D. S., \& Zettlemoyer, L. (2017). TriviaQA: A large s
 
 Kahneman, D. (2011). \textit{Thinking, Fast and Slow}. Farrar, Straus and Giroux.
 
+Krishna, R., Hata, K., Ren, F., Fei-Fei, L., \& Niebles, J. C. (2017). Dense-captioning events in videos. \textit{Proceedings of the IEEE International Conference on Computer Vision (ICCV)}, 706--715.
+
 Knutson, B., Adams, C. M., Fong, G. W., \& Hommer, D. (2001). Anticipation of increasing monetary reward selectively recruits nucleus accumbens. \textit{Journal of Neuroscience, 21}(16), RC159.
 
 Hasson, U., Malach, R., \& Heeger, D. J. (2010). Reliability of cortical activity during natural stimulation. \textit{Trends in Cognitive Sciences, 14}(1), 40--48.
@@ -935,6 +937,12 @@ Kim, D., et al. (2019). AudioCaps: Generating captions for audios in the wild. \
 Kim, H., et al. (2022). SODA: Million-scale dialogue distillation with social commonsense contextualization. \textit{arXiv:2212.10465}.
 
 LeDoux, J. E. (1994). Emotion, memory and the brain. \textit{Scientific American, 270}(6), 50--57.
+
+Li, Y., Su, H., Shen, X., Li, W., Cao, Z., \& Niu, S. (2017). DailyDialog: A manually labelled multi-turn dialogue dataset. \textit{Proceedings of the Eighth International Joint Conference on Natural Language Processing (IJCNLP)}, 986--995.
+
+Lin, T.-Y., Maire, M., Belongie, S., Hays, J., Perona, P., Ramanan, D., Doll\'{a}r, P., \& Zitnick, C. L. (2014). Microsoft COCO: Common objects in context. \textit{Proceedings of the European Conference on Computer Vision (ECCV)}, 740--755.
+
+Meta AI Research. (2024). TRIBE v2: A multimodal deep cortical encoder for predicting whole-brain fMRI responses. \textit{Unpublished manuscript}.
 
 Merity, S., Xiong, C., Bradbury, J., \& Socher, R. (2017). Pointer sentinel mixture models. \textit{Proceedings of ICLR 2017}.
 
@@ -971,6 +979,8 @@ Wehbe, L., Murphy, B., Talukdar, P., Fyshe, A., Ramdas, A., \& Mitchell, T. (201
 Williams, A., Nangia, N., \& Bowman, S. R. (2018). A broad-coverage challenge corpus for sentence understanding through inference. \textit{Proceedings of NAACL 2018}.
 
 Welbl, J., Liu, N. F., \& Gardner, M. (2017). Crowdsourcing multiple choice science questions. \textit{Proceedings of EMNLP 2017 Workshop}.
+
+Xu, J., Mei, T., Yao, T., \& Rui, Y. (2016). MSR-VTT: A large video description dataset for bridging video and language. \textit{Proceedings of the IEEE Conference on Computer Vision and Pattern Recognition (CVPR)}, 5288--5296.
 
 Young, P., Lai, A., Hodosh, M., \& Hockenmaier, J. (2014). From image descriptions to visual denotations. \textit{Transactions of the ACL, 2}, 67--78.
 

diff --git a/paper/generate_fig14.py b/paper/generate_fig14.py
@@ -15,11 +15,11 @@ plt.rcParams.update({"font.family":"serif","font.size":10,"savefig.dpi":200,
                      "savefig.bbox":"tight","savefig.facecolor":"white",
                      "axes.spines.top":False,"axes.spines.right":False})
 
-# Sorted by full semantic mean (most activated first) for final figure
+# Sorted by full semantic mean, highest first (rank 1 = least negative = most activating)
 CT_ORDER = [
-    "Social","Abstract","Spatial","Novelty","Reward",
-    "ThreatSafety","Factual","TextVerbal","Narrative","Multimodal",
-    "Emotional","ImageVisual","AudioText",
+    "AudioText","ImageVisual","Emotional","Multimodal","Narrative",
+    "TextVerbal","Factual","ThreatSafety","Reward","Novelty",
+    "Spatial","Abstract","Social",
 ]
 
 # Load hash-mode 3008-stim sweep

diff --git a/paper/main.md b/paper/main.md
@@ -13,11 +13,13 @@
 
 ## Abstract
 
-The internet is the primary delivery mechanism for human cognitive stimulation in the modern era, yet systematic comparisons of how different categories of online content engage the brain remain scarce. We present **Activation Cartography**, a computational study mapping **3,008 natural language stimuli** drawn from **13 internet content categories** against the cortical activation predictions of **TRIBE v2** (Meta AI Research, 2024) — a 177-million-parameter deep fMRI encoder trained on real cortical surface recordings. Stimuli were sourced from established NLP datasets (GoEmotions, TriviaQA, HellaSwag, SODA, MultiNLI, AudioCaps, Flickr30k) and live internet corpora (BBC/Reuters RSS feeds, Reddit, arXiv, HackerNews, Wikipedia).
+The internet is the primary delivery mechanism for human cognitive stimulation in the modern era, yet systematic comparisons of how different categories of online content engage the brain remain scarce. We present **Activation Cartography**, a computational pilot study that establishes an end-to-end pipeline for mapping **3,008 natural language stimuli** drawn from **13 internet content categories** against the cortical activation predictions of **TRIBE v2** (Meta AI Research, unpublished preprint) — a 177-million-parameter deep fMRI encoder trained on real cortical surface recordings. Stimuli were sourced from established NLP datasets (GoEmotions, TriviaQA, HellaSwag, SODA, MultiNLI, AudioCaps, Flickr30k) and live internet corpora (BBC/Reuters RSS feeds, arXiv, HackerNews, Wikipedia).
 
-A one-way ANOVA across the 13 categories yielded a highly significant effect on predicted global cortical activation (**F(12, 2995) = 13.51, p < 0.0001, η² = 0.051**), with all six tracked cortical regions showing independent significant content-type effects (all p < 0.0001). **Threat and safety content** consistently produced the highest predicted global activation; **Narrative content** the lowest, a difference corresponding to a **large effect size (Cohen's d = −0.82)**. **Multimodal and AudioText** content showed the highest relative activation in language and auditory cortex. A dominant cortical gradient accounting for **96.9% of between-category variance** contrasts sensory-language cortex against executive-motor cortex. Results are interpreted against four neuroscientific frameworks (DCT, GWT, FEP, IIT) with partial confirmation of GWT and IIT predictions. We discuss implications for content design, the attention economy, and the neuroscience of digital media.
+> **⚠ Critical methodological caveat:** At the time of these experiments, the LLaMA-3.2-3B semantic text encoder of TRIBE v2 was not loaded. All stimuli were encoded via a hash-based surrogate (SHA256 → linear projection), which captures low-level byte-statistical properties of text but **not semantic meaning**. Consequently, all results in this paper reflect structural and syntactic properties of the text corpus rather than semantic content processing. No conclusions about which content *meanings* drive brain activity can be drawn from this study. The full analysis pipeline has been validated and is ready for semantic replication, which constitutes the necessary next step before neuroscientific interpretation is warranted.
 
-> **Keywords —** fMRI encoding · internet content · cortical mapping · deep learning · Global Workspace Theory · attention economy · digital neuroscience
+Under hash-based encoding conditions, a one-way ANOVA across the 13 categories yielded a statistically significant effect on predicted global cortical activation (**F(12, 2995) = 13.51, p < 0.0001, η² = 0.051**), with all six tracked cortical regions showing significant content-type effects (all p < 0.0001). The η² of 0.051 indicates a small effect: content category accounts for ~5% of variance in predicted activation. A dominant structural gradient (PC1, 96.9% of between-category variance) contrasts sensory-language cortex against executive-motor cortex. This gradient reflects a property of the TRIBE v2 encoder's learned function, not necessarily a semantic content effect. Four neuroscientific theoretical frameworks (DCT, GWT, FEP, IIT) are used to generate testable predictions for the planned semantic replication; they cannot be validly evaluated against hash-encoded results. We provide a reusable, open-source corpus, sweep harness, and statistical framework ready for immediate replication once semantic encoding is enabled.
+
+> **Keywords —** fMRI encoding · internet content · cortical mapping · deep learning · methodological pilot · digital neuroscience · pre-semantic baseline
 
 ---
 
@@ -119,14 +121,14 @@ We compiled 3,008 text stimuli across all 13 categories (see *Table 1*) from sev
 | Narrative | 300 | HellaSwag (Zellers et al., 2019); TinyStories (Eldan & Li, 2023) |
 | Factual | 300 | TriviaQA (Joshi et al., 2017); SciQ (Welbl et al., 2017) |
 | Abstract | 300 | MultiNLI (Williams et al., 2018); SciQ; arXiv abstracts |
-| Social | 300 | SODA (Kim et al., 2022); DailyDialog |
-| ImageVisual | 263 | Flickr30k (Young et al., 2014); COCO captions |
+| Social | 300 | SODA (Kim et al., 2022); DailyDialog (Li et al., 2017) |
+| ImageVisual | 263 | Flickr30k (Young et al., 2014); COCO captions (Lin et al., 2014) |
 | Novelty | 257 | AG News Sci/Tech (Zhang et al., 2015); arXiv; HackerNews |
 | ThreatSafety | 225 | AG News World; BBC/Reuters RSS feeds |
 | AudioText | 224 | AudioCaps (Kim et al., 2019); BBC science feeds |
 | Emotional | 212 | GoEmotions (Demszky et al., 2020); Yelp reviews |
 | Reward | 212 | Yelp 5-star reviews (Zhang et al., 2015) |
-| Multimodal | 189 | ActivityNet Captions; MSR-VTT; Wikipedia documentaries |
+| Multimodal | 189 | ActivityNet Captions (Krishna et al., 2017); MSR-VTT (Xu et al., 2016); Wikipedia documentaries |
 | TextVerbal | 138 | WikiText-103 (Merity et al., 2017) |
 | Spatial | 88 | Wikipedia geography categories; curated spatial descriptions |
 | **Total** | **3,008** | |
@@ -472,9 +474,17 @@ Kim, D., et al. (2019). AudioCaps: Generating captions for audios in the wild. *
 
 Kim, H., et al. (2022). SODA: Million-scale dialogue distillation with social commonsense contextualization. *arXiv:2212.10465*.
 
+Krishna, R., Hata, K., Ren, F., Fei-Fei, L., & Niebles, J. C. (2017). Dense-captioning events in videos. *Proceedings of ICCV*, 706–715.
+
 LeDoux, J. E. (1994). Emotion, memory and the brain. *Scientific American*, 270(6), 50–57.
 
+Li, Y., Su, H., Shen, X., Li, W., Cao, Z., & Niu, S. (2017). DailyDialog: A manually labelled multi-turn dialogue dataset. *Proceedings of the Eighth International Joint Conference on Natural Language Processing (IJCNLP)*, 986–995.
+
+Lin, T.-Y., Maire, M., Belongie, S., Hays, J., Perona, P., Ramanan, D., Dollár, P., & Zitnick, C. L. (2014). Microsoft COCO: Common objects in context. *Proceedings of ECCV*, 740–755.
+
 Merity, S., Xiong, C., Bradbury, J., & Socher, R. (2017). Pointer sentinel mixture models. *Proceedings of ICLR 2017*.
+
+Meta AI Research. (2024). TRIBE v2: A multimodal deep cortical encoder for predicting whole-brain fMRI responses. *Unpublished manuscript*.
 
 Mitchell, T. M., et al. (2008). Predicting human brain activity associated with the meanings of nouns. *Science*, 320(5880), 1191–1195.
 
@@ -499,6 +509,8 @@ Wehbe, L., Murphy, B., Talukdar, P., Fyshe, A., Ramdas, A., & Mitchell, T. (2014
 Williams, A., Nangia, N., & Bowman, S. R. (2018). A broad-coverage challenge corpus for sentence understanding through inference. *Proceedings of NAACL 2018*.
 
 Welbl, J., Liu, N. F., & Gardner, M. (2017). Crowdsourcing multiple choice science questions. *Proceedings of EMNLP 2017 Workshop*.
+
+Xu, J., Mei, T., Yao, T., & Rui, Y. (2016). MSR-VTT: A large video description dataset for bridging video and language. *Proceedings of CVPR*, 5288–5296.
 
 Young, P., Lai, A., Hodosh, M., & Hockenmaier, J. (2014). From image descriptions to visual denotations. *Transactions of the ACL*, 2, 67–78.
 
